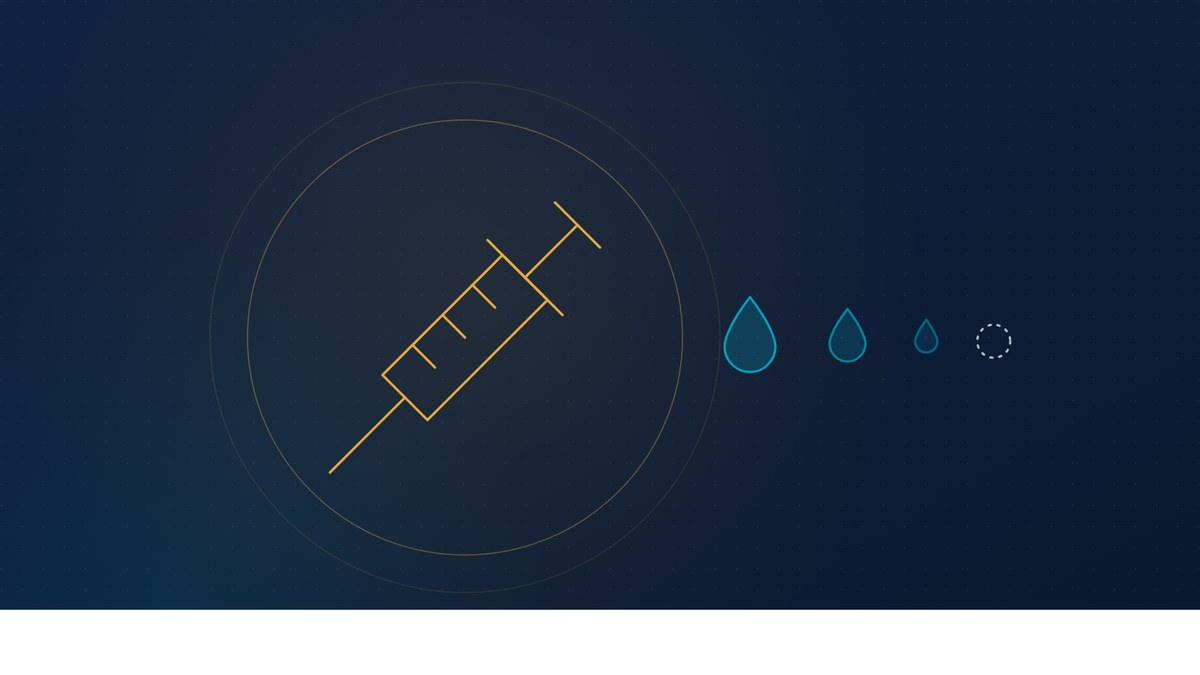
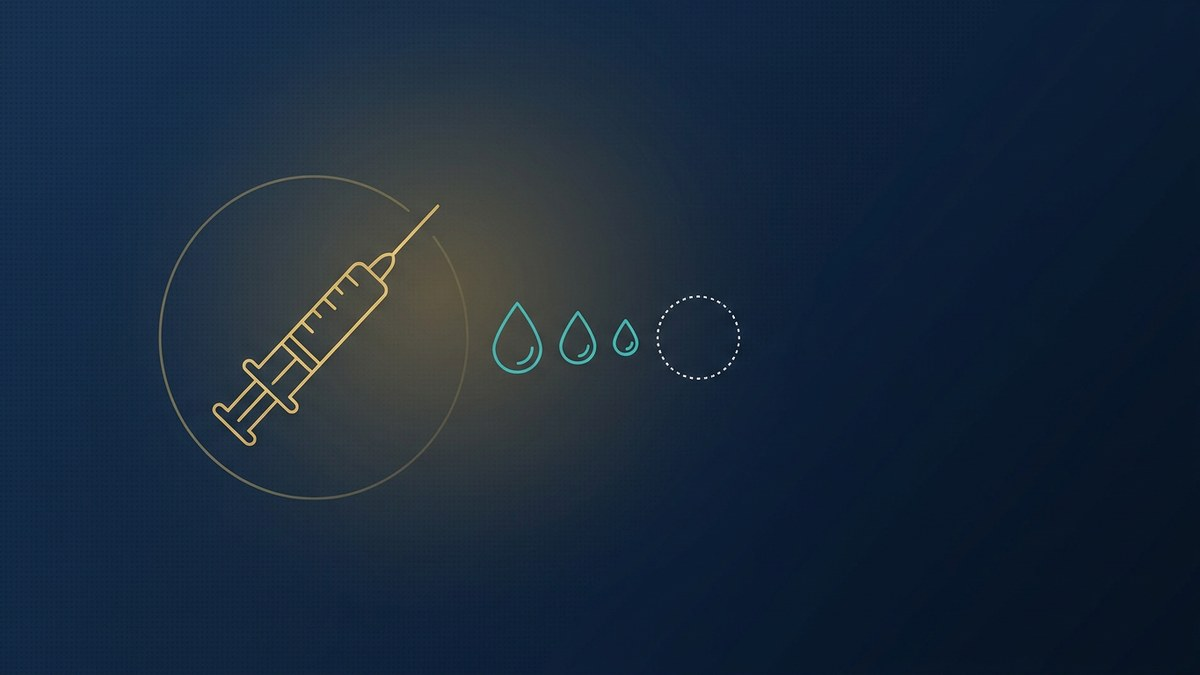
Blog: 22 Ekim yazılarının kapakları Pixelbin (Nano Banana Pro) ile yeniden üretildi
Claude-Session: https://claude.ai/code/session_01EXdnMLmE91UgANW21GWZzx

diff --git a/src/content/blog/posts/rhinoplasty-abroad-aftercare.ts b/src/content/blog/posts/rhinoplasty-abroad-aftercare.ts
@@ -4,7 +4,7 @@ import type { Post } from '../types';
 const post: Post = {
   slug: 'rhinoplasty-abroad-stay-travel-follow-up',
   date: '2026-10-22',
-  cover: '/blog/rhinoplasty-abroad-aftercare.svg',
+  cover: '/blog/rhinoplasty-abroad-aftercare.webp',
   shareImage: '/blog/rhinoplasty-abroad-aftercare.jpg',
   procedure: { href: '/international-patients', icon: 'rhinoplasty' },
   translations: {

diff --git a/src/content/blog/posts/rhinoplasty-consultation.ts b/src/content/blog/posts/rhinoplasty-consultation.ts
@@ -4,7 +4,7 @@ import type { Post } from '../types';
 const post: Post = {
   slug: 'rhinoplasty-consultation-reference-photos-breathing',
   date: '2026-10-22',
-  cover: '/blog/rhinoplasty-consultation.svg',
+  cover: '/blog/rhinoplasty-consultation.webp',
   shareImage: '/blog/rhinoplasty-consultation.jpg',
   procedure: { href: '/rinoplasti', icon: 'rhinoplasty' },
   translations: {

diff --git a/src/content/blog/posts/filler-not-always-answer.ts b/src/content/blog/posts/filler-not-always-answer.ts
@@ -4,7 +4,7 @@ import type { Post } from '../types';
 const post: Post = {
   slug: 'more-filler-is-not-always-the-answer',
   date: '2026-10-22',
-  cover: '/blog/filler-not-always-answer.svg',
+  cover: '/blog/filler-not-always-answer.webp',
   shareImage: '/blog/filler-not-always-answer.jpg',
   procedure: { href: '/dermal-dolgu', icon: 'filler' },
   translations: {

diff --git a/src/content/blog/posts/nose-filler.ts b/src/content/blog/posts/nose-filler.ts
@@ -4,7 +4,7 @@ import type { Post } from '../types';
 const post: Post = {
   slug: 'why-i-dont-recommend-nose-filler',
   date: '2026-10-22',
-  cover: '/blog/nose-filler.svg',
+  cover: '/blog/nose-filler.webp',
   shareImage: '/blog/nose-filler.jpg',
   procedure: { href: '/rinoplasti', icon: 'rhinoplasty' },
   translations: {
